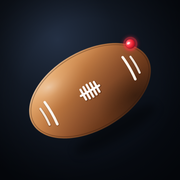
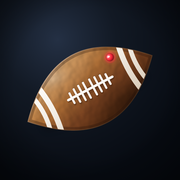
Point the home-screen football so it reads as a ball.
Replace the smooth oval with a pointed leather silhouette, a full lace panel, and end stripes that wrap the tips. Bump the shell cache to nfl-v4 so iOS and installed PWAs pick up the new artwork.

Changed region(s): [[0.1389, 0.1944, 0.8611, 0.7778]]

diff --git a/sw.js b/sw.js
@@ -1,5 +1,5 @@
 // Minimal shell cache: network-first so updates are never blocked; only used when offline.
-const V='nfl-v3',SHELL=['./','./index.html','./manifest.json','./apple-touch-icon.png','./icon-192.png'];
+const V='nfl-v4',SHELL=['./','./index.html','./manifest.json','./apple-touch-icon.png','./icon-192.png'];
 self.addEventListener('install',e=>{e.waitUntil(caches.open(V).then(c=>c.addAll(SHELL)).catch(()=>{}));self.skipWaiting()});
 self.addEventListener('activate',e=>{e.waitUntil(caches.keys().then(ks=>Promise.all(ks.filter(k=>k!==V).map(k=>caches.delete(k)))).then(()=>self.clients.claim()))});
 self.addEventListener('fetch',e=>{const r=e.request;if(r.method!=='GET')return;const u=new URL(r.url);if(u.origin!==location.origin)return;
